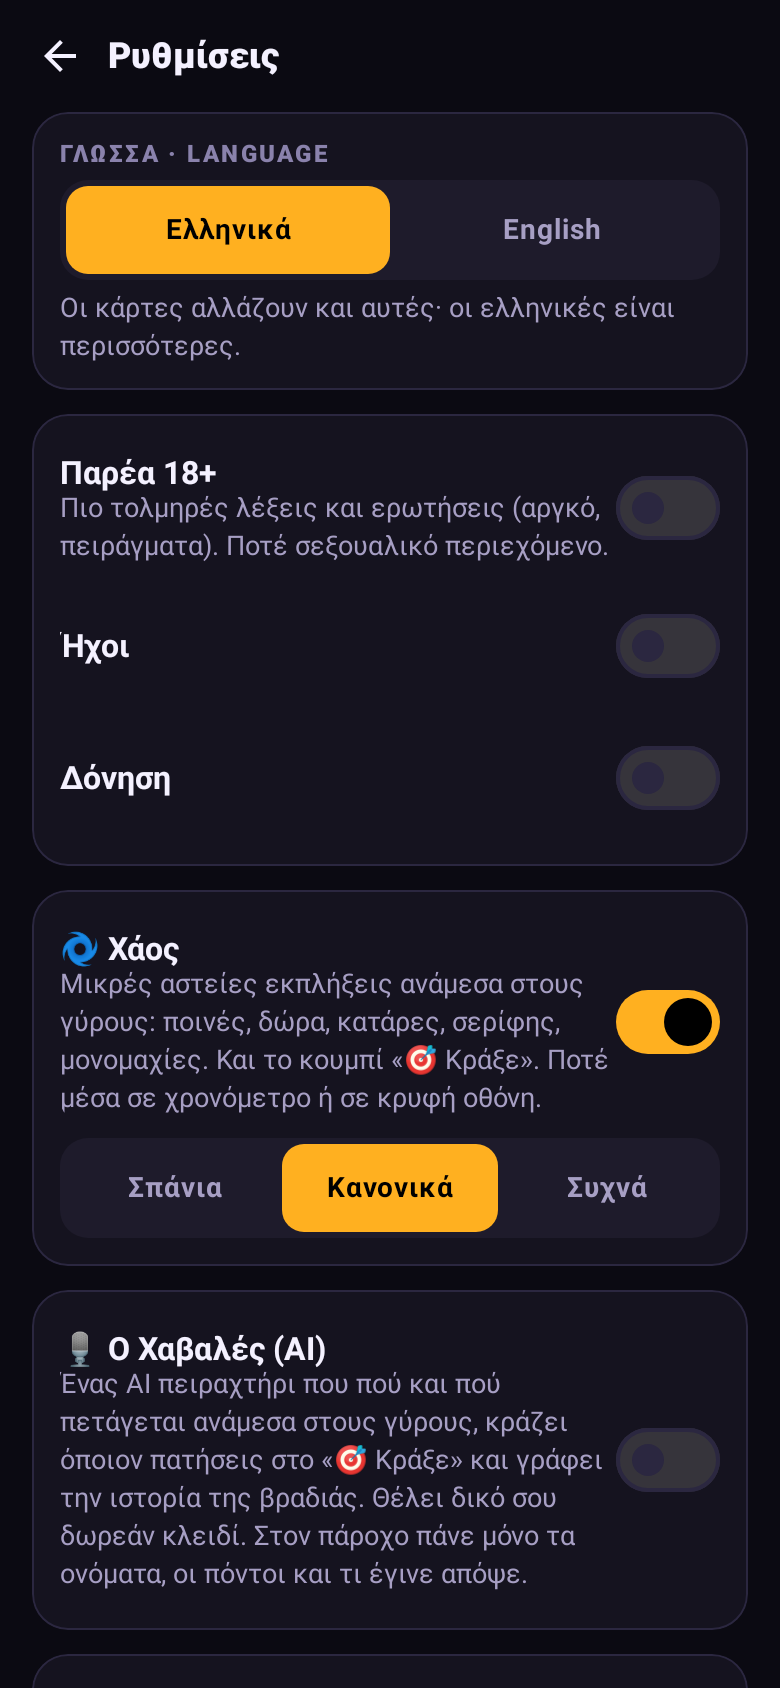
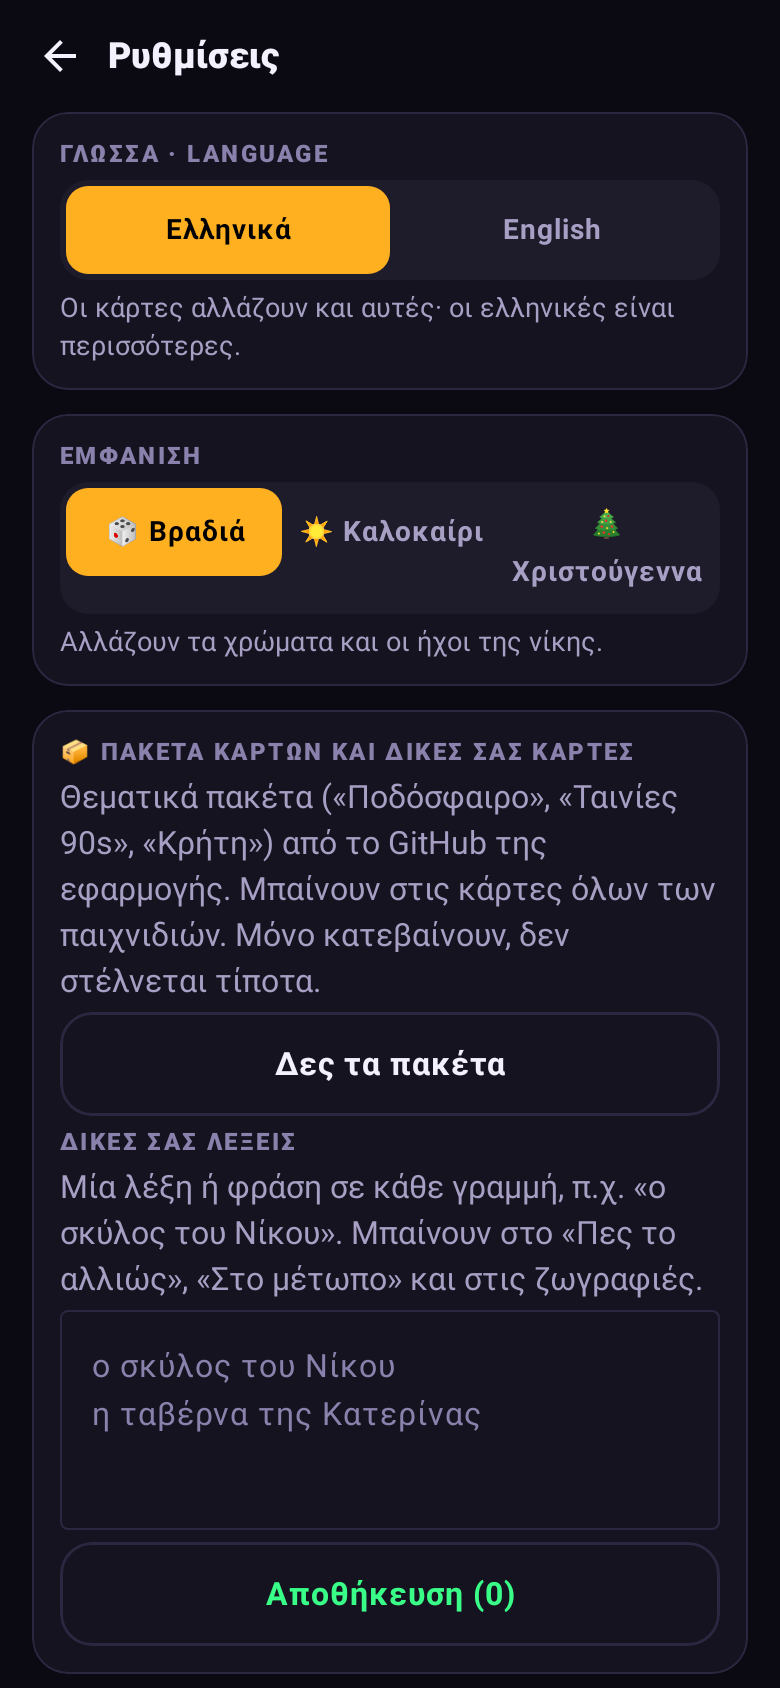
1.1.1: «Μοιράσου το Gamenight» στις Ρυθμίσεις (link λήψης platebit.app/game, κοινοποίηση ή αντιγραφή)

diff --git a/app/src/main/java/gr/wsol/gamenight/ui/Settings.kt b/app/src/main/java/gr/wsol/gamenight/ui/Settings.kt
@@ -78,6 +78,7 @@ fun SettingsScreen() {
             }
             checking?.let { Body(it) }
         }
+        SharePanel()
         Panel(onClick = { Nav.go(Screen.Report) }) {
             Text(t("🐞 Αναφορά προβλήματος", "🐞 Report a problem"), style = Type.body, color = C.text)
             Text(t("Με email στο ${Report.EMAIL}. Χωρίς τα ονόματα των παικτών.", "By email to ${Report.EMAIL}. Without the players' names."), style = Type.small, color = C.muted)
@@ -155,3 +156,34 @@ fun CrashDialog(report: String, onClose: () -> Unit) {
     )
 }
 
+
+
+/** 1.1.1: «Μοιράσου το Gamenight»: the download link, to send to friends. */
+object ShareApp {
+    const val LINK = "https://platebit.app/game"
+    fun text() = t(
+        "Gamenight GR: 54 παιχνίδια παρέας σε ένα κινητό, δωρεάν και χωρίς διαφημίσεις. Κατέβασέ το: $LINK",
+        "Gamenight GR: 54 party games on one phone, free and without ads. Get it here: $LINK",
+    )
+}
+
+@Composable
+fun SharePanel() {
+    val ctx = LocalContext.current
+    val clipboard = LocalClipboard.current
+    val scope = rememberCoroutineScope()
+    var copied by remember { mutableStateOf(false) }
+    Panel {
+        Text(t("📤 Μοιράσου το Gamenight", "📤 Share Gamenight"), style = Type.body, color = C.text)
+        Text(t("Στείλε στην παρέα το link για να το κατεβάσουν: ${ShareApp.LINK}", "Send the group the download link: ${ShareApp.LINK}"), style = Type.small, color = C.muted)
+        Row(horizontalArrangement = Arrangement.spacedBy(10.dp)) {
+            BigButton(t("Μοιράσου", "Share"), {
+                val i = Intent(Intent.ACTION_SEND).setType("text/plain").putExtra(Intent.EXTRA_TEXT, ShareApp.text())
+                runCatching { ctx.startActivity(Intent.createChooser(i, null)) }
+            }, Modifier.weight(1f))
+            GhostButton(if (copied) t("✓ Αντιγράφηκε", "✓ Copied") else t("Αντιγραφή link", "Copy link"), {
+                scope.launch { clipboard.setClipEntry(ClipEntry(ClipData.newPlainText("Gamenight GR", ShareApp.LINK))); copied = true }
+            }, Modifier.weight(1f))
+        }
+    }
+}

diff --git a/app/src/test/java/gr/wsol/gamenight/Games11Test.kt b/app/src/test/java/gr/wsol/gamenight/Games11Test.kt
@@ -287,5 +287,12 @@ class Games11Test {
         val f = SafeDial(listOf(5, 30, 10)); f.feed(0f, 1 / 60f); assertEquals("reset", f.feed(40f, 1 / 60f))
     }
 
+    @Test fun shareTextHasTheDownloadLink() {
+        assertTrue(gr.wsol.gamenight.ui.ShareApp.text().endsWith("https://platebit.app/game"))
+        Store.settings = Store.settings.copy(english = true)
+        assertTrue(gr.wsol.gamenight.ui.ShareApp.text().startsWith("Gamenight GR: 54 party games"))
+        Store.settings = Store.settings.copy(english = false)
+    }
+
     private fun abs(f: Float) = kotlin.math.abs(f)
 }

diff --git a/docs/RELEASE.md b/docs/RELEASE.md
@@ -1,4 +1,7 @@
-**Gamenight GR 1.1**: 54 παιχνίδια παρέας σε ένα κινητό.
+**Gamenight GR 1.1.1**: 54 παιχνίδια παρέας σε ένα κινητό.
+
+### Νέο στην 1.1.1
+- **📤 Μοιράσου το Gamenight** (Ρυθμίσεις): στέλνεις στην παρέα το link για να το κατεβάσουν (platebit.app/game), ή το αντιγράφεις.
 
 ### Τι νέο έχει η 1.1
 - **26 νέα παιχνίδια:**
@@ -25,4 +28,4 @@
 
 ---
 
-**Gamenight GR 1.1**: 54 party games on one phone. New: 26 games (party, hidden roles, quiz with a buzzer, sound chain, backgammon, motion games, 4 arcade, 6 AI games with your own key), card packs from GitHub and your own words, a history of past nights with streaks, and Summer and Christmas looks. Install `GamenightGR.apk` below (allow “unknown sources”), add the players and pick a game. Later versions show up on the home screen and install with one tap.
+**Gamenight GR 1.1.1**: 54 party games on one phone. New in 1.1.1: «Share Gamenight» in the settings sends the download link (platebit.app/game). New: 26 games (party, hidden roles, quiz with a buzzer, sound chain, backgammon, motion games, 4 arcade, 6 AI games with your own key), card packs from GitHub and your own words, a history of past nights with streaks, and Summer and Christmas looks. Install `GamenightGR.apk` below (allow “unknown sources”), add the players and pick a game. Later versions show up on the home screen and install with one tap.
